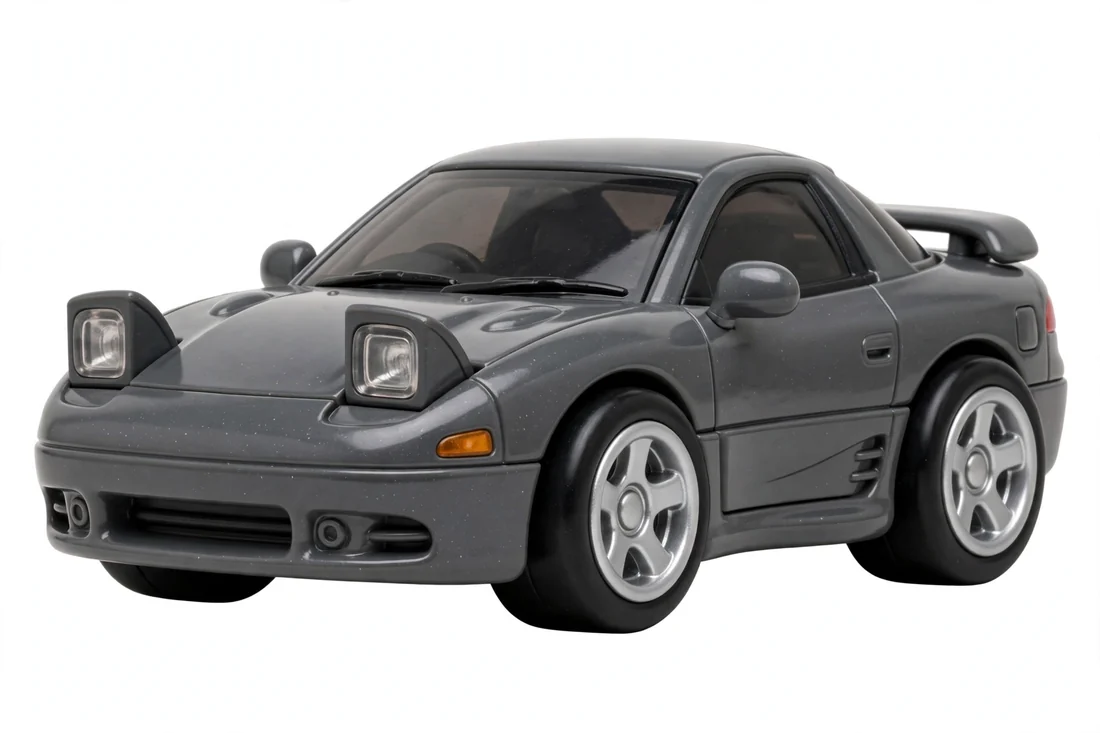
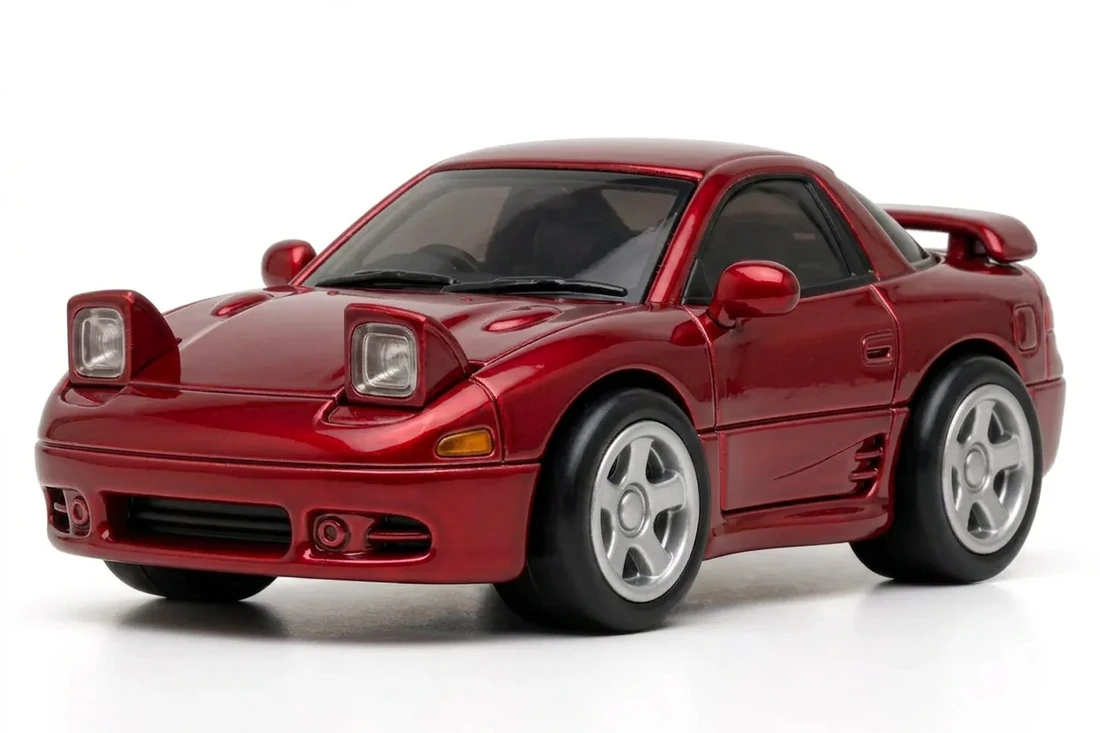
Colores nuevos: r34 azul con llantas doradas, r32 morado, 3000gt rojo, lfa llantas negras y gold pasa a ser el r34

diff --git a/produccion/FLUJO_GRATIS.md b/produccion/FLUJO_GRATIS.md
@@ -101,3 +101,45 @@ El código ya lo soporta. A partir de ahí, cada pedido pagado dispara el envío
 2. **No vaciar** → maciza cuesta 3-4 veces más. En 500 uds son cientos de euros.
 3. **Sin agujero de drenaje** → rechazo automático en resina.
 4. **Hacer los 15 antes de tocar una muestra** → si el proveedor falla, tiras semanas de trabajo.
+
+---
+
+## ⚠ Dónde está EXACTAMENTE el multi-foto (esto no se encuentra a la primera)
+
+El error típico es entrar en la web comercial de estas herramientas, donde solo te ofrecen texto-a-3D. El multi-vista está en otro sitio:
+
+### Opción 1 · Hunyuan3D-2mv (el que quieres)
+
+**Buscar en huggingface.co el Space:** `tencent/Hunyuan3D-2mv`
+
+Es una versión de Hunyuan3D entrenada **específicamente para multi-vista**. Dentro del Space, la clave es que **hay pestañas**: verás una llamada **"Image Prompt"** (una sola foto) y otra **"MultiView Prompt"**. Tienes que pinchar en la segunda. Ahí aparecen cuatro casillas:
+
+```
+[ Front ]  [ Back ]
+[ Left  ]  [ Right ]
+```
+
+Y ahí subes:
+- **Front** → `{slug}-tresc-frontal.webp`
+- **Back**  → `{slug}-tresc-trasera.webp`
+- **Left**  → `{slug}-lateral.webp`
+- Right     → déjalo vacío, no es obligatorio
+
+Luego pulsas **"Gen Shape"**.
+
+> Si el Space oficial está saturado o caído (pasa a menudo), busca en HuggingFace `Hunyuan3D-2mv` y verás copias del mismo Space hechas por otros usuarios. Funcionan igual.
+
+### Opción 2 · fal.ai
+Tiene el modelo `fal-ai/hunyuan3d/v2/multi-view`, que pide `front_image_url`, `back_image_url` y `left_image_url`. Es de pago por uso, pero es la vía si quieres automatizarlo por API.
+
+### Opción 3 · 3D AI Studio
+`3daistudio.com/ImageTo3D` — acepta de 2 a 4 fotos, 100 créditos gratis al mes sin tarjeta, y exporta **3MF con color**, que es justo el formato que necesitas.
+
+### ⚠ Licencias: míralas antes de vender
+
+| Herramienta | Uso comercial |
+|---|---|
+| TRELLIS.2 | ✅ MIT, sin restricciones |
+| Hunyuan3D | ⚠ Licencia Tencent Community: **léela antes de vender** |
+| Meshy gratis | ⚠ CC BY 4.0, obliga a atribuir |
+| Tripo gratis | ❌ No permite uso comercial |
